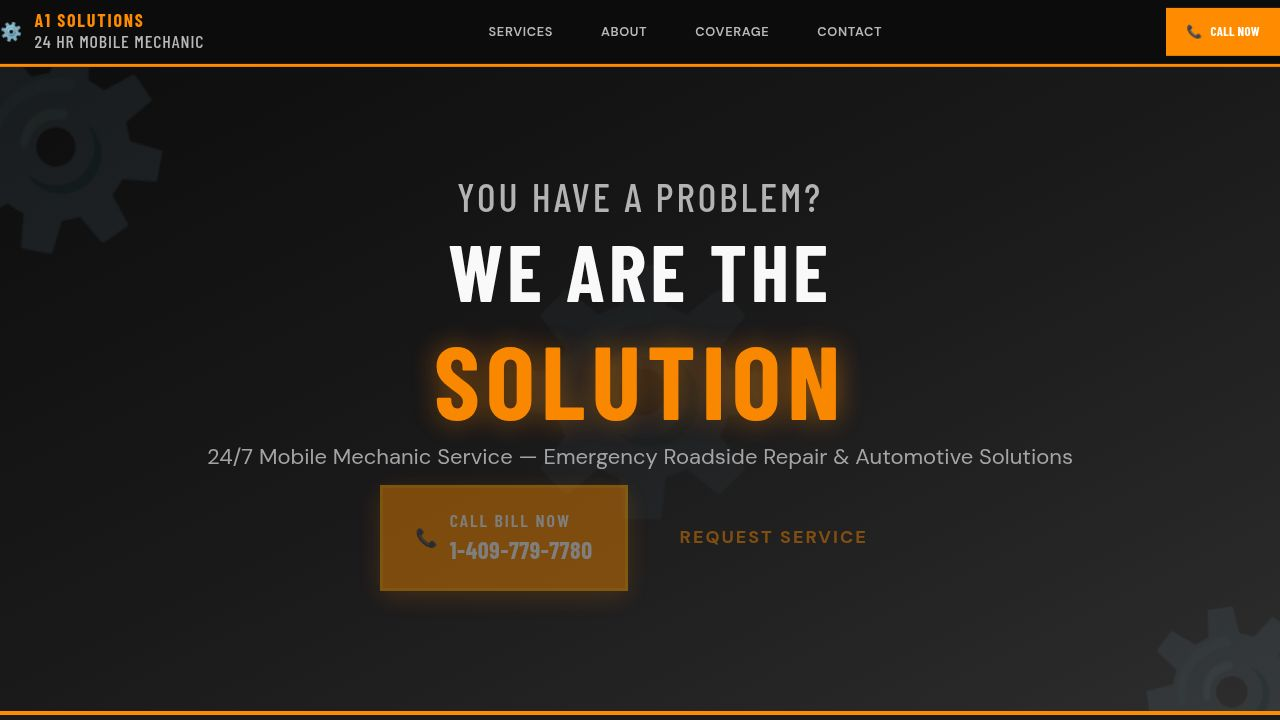
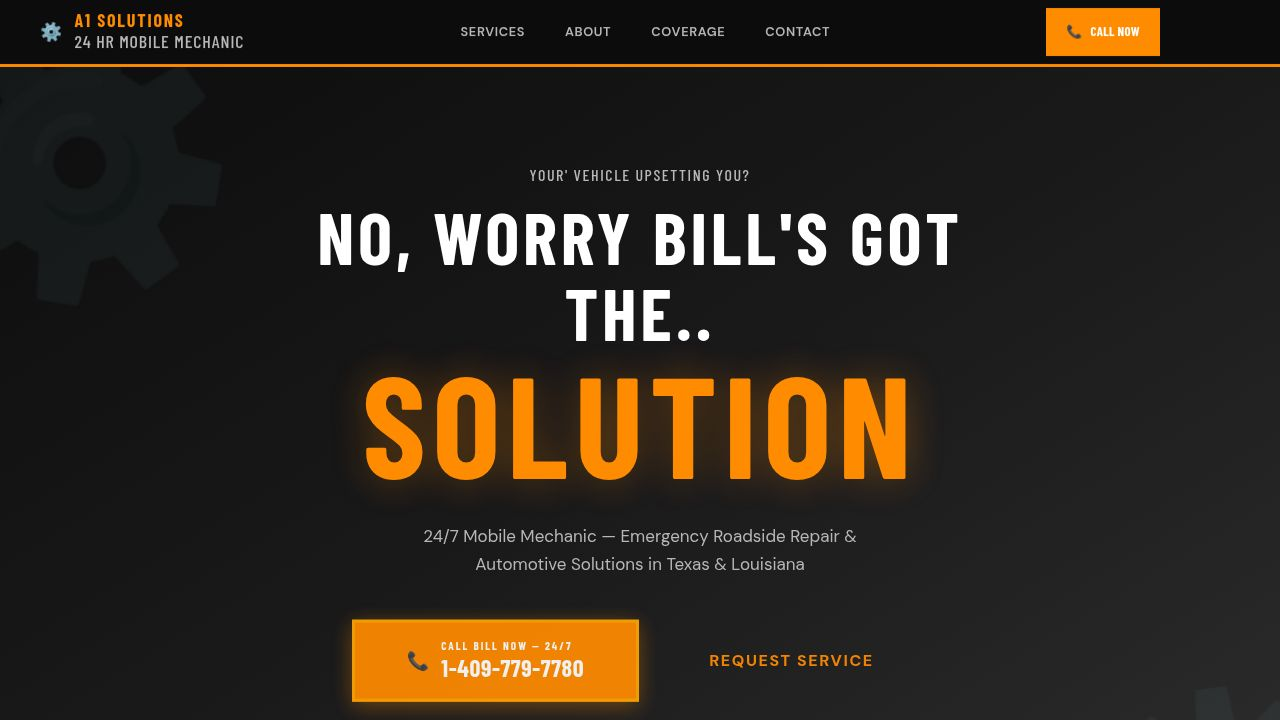
Update configuration to allow for successful deployment to Vercel
Modify vite.config.ts to provide fallback values for PORT and BASE_PATH environment variables, and adjust plugin loading for production builds to resolve Vercel deployment errors.

Replit-Commit-Author: Agent
Replit-Commit-Session-Id: ef56189a-cd00-40bf-b1f0-d762b1ff7d8a
Replit-Commit-Checkpoint-Type: full_checkpoint
Replit-Commit-Event-Id: 98eff4d1-7deb-4ca5-8fdb-0e7a28465449
Replit-Commit-Screenshot-Url: https://storage.googleapis.com/screenshot-production-us-central1/2ee75bad-8fce-4e88-90b2-82ae7fcfa404/ef56189a-cd00-40bf-b1f0-d762b1ff7d8a/hxDWq1V
Replit-Helium-Checkpoint-Created: true

diff --git a/artifacts/a1-solutions/vite.config.ts b/artifacts/a1-solutions/vite.config.ts
@@ -4,34 +4,17 @@ import tailwindcss from "@tailwindcss/vite";
 import path from "path";
 import runtimeErrorOverlay from "@replit/vite-plugin-runtime-error-modal";
 
-const rawPort = process.env.PORT;
-
-if (!rawPort) {
-  throw new Error(
-    "PORT environment variable is required but was not provided.",
-  );
-}
-
-const port = Number(rawPort);
-
-if (Number.isNaN(port) || port <= 0) {
-  throw new Error(`Invalid PORT value: "${rawPort}"`);
-}
-
-const basePath = process.env.BASE_PATH;
-
-if (!basePath) {
-  throw new Error(
-    "BASE_PATH environment variable is required but was not provided.",
-  );
-}
+const port = Number(process.env.PORT ?? "5173");
+const basePath = process.env.BASE_PATH ?? "/";
 
 export default defineConfig({
   base: basePath,
   plugins: [
     react(),
     tailwindcss(),
-    runtimeErrorOverlay(),
+    ...(process.env.NODE_ENV !== "production"
+      ? [runtimeErrorOverlay()]
+      : []),
     ...(process.env.NODE_ENV !== "production" &&
     process.env.REPL_ID !== undefined
       ? [

diff --git a/artifacts/a1-solutions/src/components/Hero.tsx b/artifacts/a1-solutions/src/components/Hero.tsx
@@ -65,7 +65,7 @@ const Hero = () => {
           animate={{ opacity: 1, y: 0 }}
           transition={{ duration: 0.5, delay: 0.1 }}
         >
-          You Have a Problem?
+          Your' Vehicle Upsetting You?
         </motion.p>
 
         {/* Headline line 1 */}
@@ -81,7 +81,7 @@ const Hero = () => {
           animate={{ opacity: 1, y: 0 }}
           transition={{ duration: 0.6, delay: 0.2 }}
         >
-          We Are The
+          No, Worry Bill's Got The..
         </motion.h1>
 
         {/* Headline — SOLUTION */}
